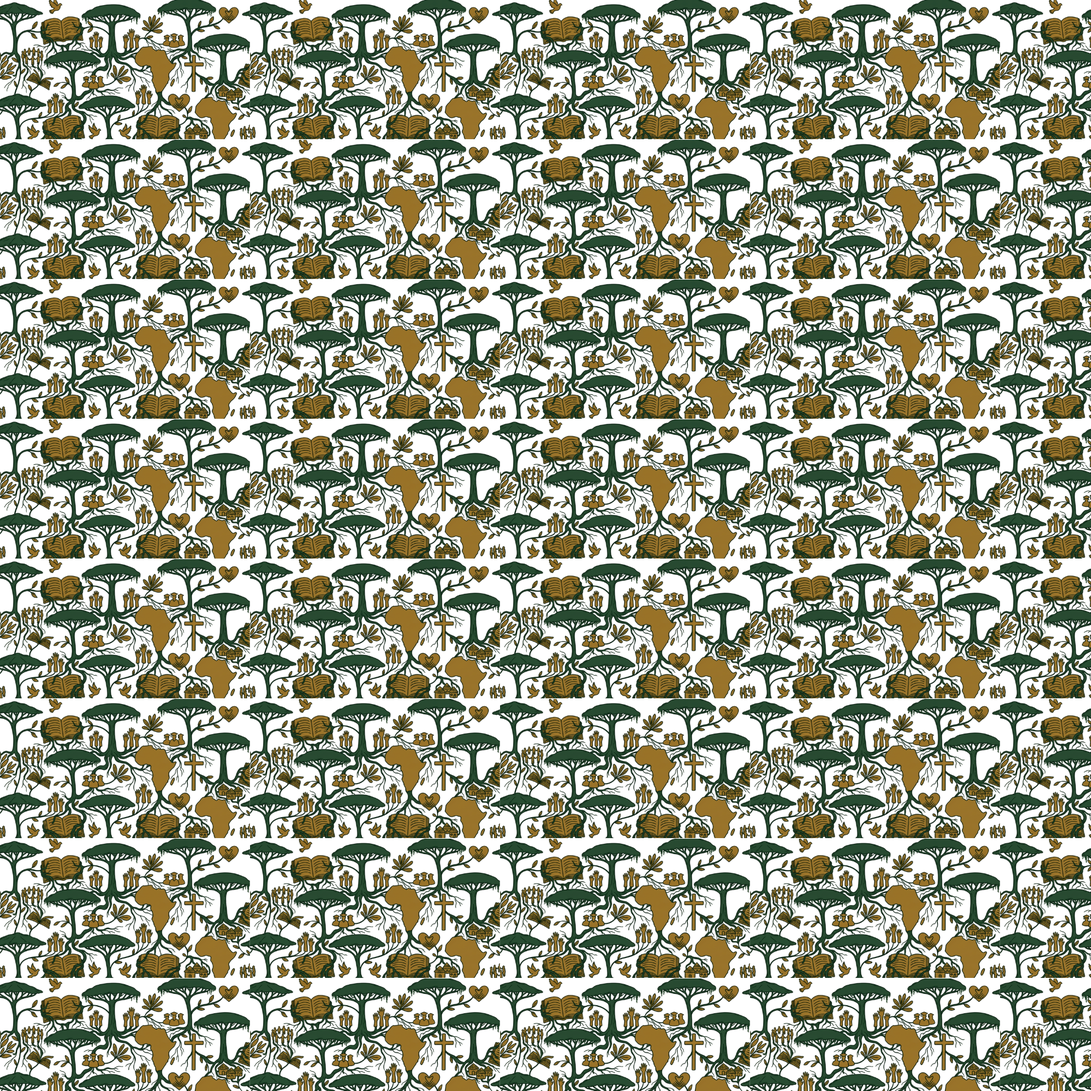
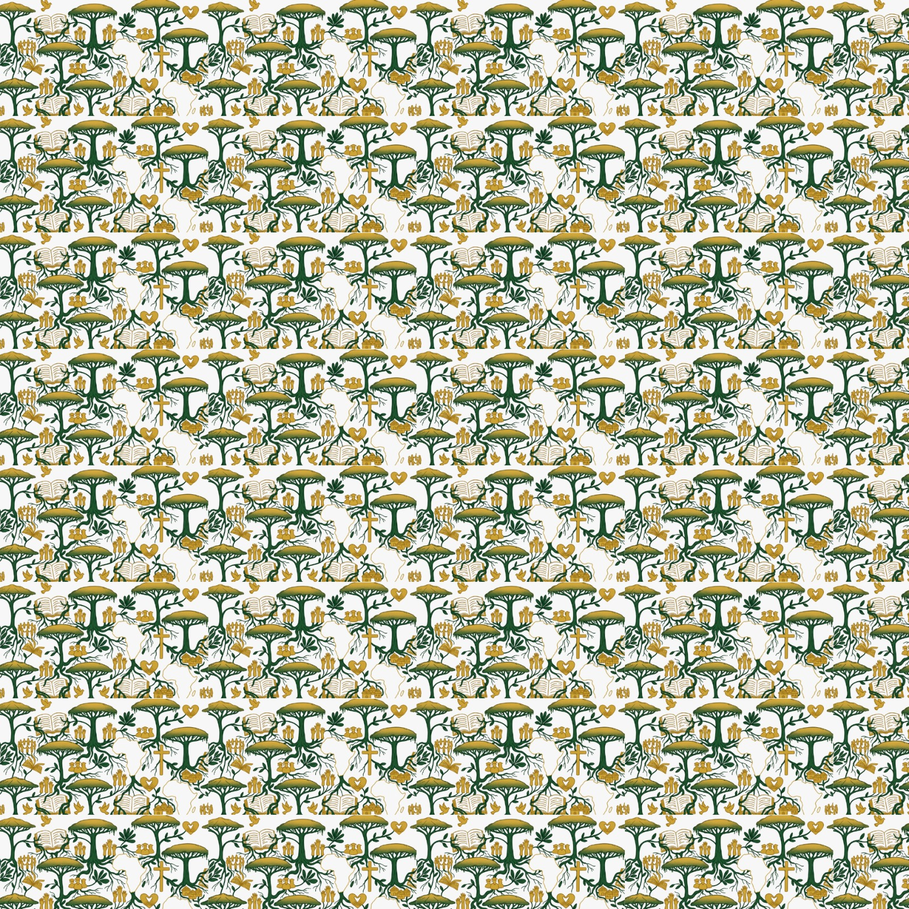
updates to the code now

diff --git a/components/Footer.tsx b/components/Footer.tsx
@@ -1,4 +1,3 @@
-
 "use client";
 
 import NextLink from "next/link";
@@ -110,7 +109,11 @@ export default function Footer() {
       bgRepeat="repeat"
       bg="brand.50"
     >
-      <Container maxW="100rem" position="relative" zIndex={1}>
+      <Container
+        maxW="109rem"
+        position="relative"
+        zIndex={1}
+      >
         {/* =====================================================
             MAIN FOOTER
             ===================================================== */}
@@ -120,14 +123,12 @@ export default function Footer() {
             base: "1fr",
             md: "repeat(5, 1fr)",
           }}
-          gap={{ base: 10, md: 9, lg: 10 }}
-          ml={{ base: 0, lg: -10 }}
-          py={16}
+          gap={{ base: 6, md: 6, lg: 7 }}
+          ml={0}
+          py={{ base: 8, md: 9 }}
         >
           {/* ===================================================
               ABOUT
-
-              LOGO HAS BEEN LEFT EXACTLY AS PROVIDED
               =================================================== */}
 
           <GridItem justifySelf="start">
@@ -138,40 +139,56 @@ export default function Footer() {
               textAlign="left"
               h="100%"
               mt={{ base: 0, md: -19 }}
+              w="100%"
             >
-              <Image
-                src="/fot.png"
+              {/* =================================================
+                  FOOTER LOGO
+                  ================================================= */}
+
+              <Box
                 w={{
-                  base: "280px",
-                  sm: "280px",
-                  md: "255px",
-                  lg: "260px",
+                  base: "150px",
+                  md: "170px",
+                  lg: "270px",
                 }}
-                alt="Bethesda Training College"
+                overflow="visible"
                 ml={{
-                  base: "-70px",
-                  sm: "-50px",
+                  base: 0,
                   md: "-55px",
-                  lg: "-75px",
                 }}
-              />
+              >
+                <Image
+                  src="/fot.png"
+                  w="370px"
+                  alt="Bethesda Training College"
+                  objectFit="contain"
+                />
+              </Box>
+
+              {/* =================================================
+                  COLLEGE TITLE
+                  ================================================= */}
 
               <Heading
-                color="earth.900"
+                color="#000000"
                 size="md"
-                mb={4}
+                mb={3}
               >
                 Bethesda Training College
               </Heading>
+
+              {/* =================================================
+                  DESCRIPTION
+                  ================================================= */}
 
               <Text
                 color="gray.700"
                 fontSize="sm"
                 lineHeight="1.7"
               >
-                We equip pastors, ministry leaders, and believers with sound
-                biblical, theological, and practical training to serve the
-                Church and society effectively.
+                We equip pastors, ministry leaders, and believers with
+                sound biblical, theological, and practical training to
+                serve the Church and society effectively.
               </Text>
             </Box>
           </GridItem>
@@ -183,8 +200,8 @@ export default function Footer() {
           <GridItem>
             <Heading
               size="sm"
-              mb={4}
-              color="earth.900"
+              mb={3}
+              color="#000000"
               textTransform="uppercase"
             >
               QUICKLINKS
@@ -240,8 +257,8 @@ export default function Footer() {
           <GridItem>
             <Heading
               size="sm"
-              mb={4}
-              color="earth.900"
+              mb={3}
+              color="#000000"
               textTransform="uppercase"
             >
               COURSES
@@ -277,14 +294,14 @@ export default function Footer() {
           <GridItem>
             <Heading
               size="sm"
-              mb={4}
-              color="earth.900"
+              mb={3}
+              color="#000000"
               textTransform="uppercase"
             >
               CONTACT
             </Heading>
 
-            <Stack gap={3}>
+            <Stack gap={2}>
               {/* Location */}
 
               <HStack
@@ -392,8 +409,8 @@ export default function Footer() {
           <GridItem>
             <Heading
               size="sm"
-              mb={4}
-              color="earth.900"
+              mb={3}
+              color="#000000"
               textTransform="uppercase"
             >
               CONNECT WITH US
@@ -502,16 +519,15 @@ export default function Footer() {
               </Link>
             </HStack>
 
-            {/* Partner With Us
-                Moved from CONTACT to CONNECT WITH US */}
+            {/* Partner With Us */}
 
             <Button
-              mt={6}
-              size="lg"
+              mt={4}
+              size="md"
               variant="outline"
               borderColor="gold.500"
               color="gold.500"
-              px={7}
+              px={6}
               _hover={{
                 bg: "gold.500",
                 color: "earth.500",
@@ -520,10 +536,12 @@ export default function Footer() {
               Partner With Us
             </Button>
 
+            {/* Tagline */}
+
             <Text
               color="earth.300"
               fontSize="sm"
-              mt={5}
+              mt={4}
               lineHeight="1.6"
             >
               Rooted in the Word, Ready for the World.
@@ -544,9 +562,9 @@ export default function Footer() {
             RECOGNITION & PARTNERS
             ===================================================== */}
 
-        <Box py={{ base: 10, md: 10 }}>
+        <Box py={{ base: 6, md: 7 }}>
           <Stack
-            gap={10}
+            gap={6}
             align="center"
           >
             {/* Section Heading */}
@@ -555,7 +573,7 @@ export default function Footer() {
               fontSize="sm"
               letterSpacing="0.25em"
               textTransform="uppercase"
-              color="gray.500"
+              color="#000000"
               fontWeight="600"
               textAlign="center"
             >
@@ -583,15 +601,15 @@ export default function Footer() {
                   display="flex"
                   justifyContent="center"
                   alignItems="center"
-                  minH="100px"
+                  minH="75px"
                 >
                   <Image
                     src={item.img}
                     alt={item.name}
                     maxH={
                       item.large
-                        ? "105px"
-                        : "80px"
+                        ? "95px"
+                        : "70px"
                     }
                     maxW={
                       item.large
@@ -621,7 +639,7 @@ export default function Footer() {
                 md: "none",
               }}
               columns={2}
-              gap={8}
+              gap={6}
               w="full"
             >
               {recognitionPartners.map((item) => (
@@ -630,15 +648,15 @@ export default function Footer() {
                   display="flex"
                   justifyContent="center"
                   alignItems="center"
-                  minH="90px"
+                  minH="70px"
                 >
                   <Image
                     src={item.img}
                     alt={item.name}
                     maxH={
                       item.large
-                        ? "95px"
-                        : "70px"
+                        ? "90px"
+                        : "65px"
                     }
                     maxW={
                       item.large
@@ -789,4 +807,3 @@ export default function Footer() {
     </Box>
   );
 }
-

diff --git a/components/Navbar.tsx b/components/Navbar.tsx
@@ -33,21 +33,32 @@ export function Dropdown({
   label,
   items,
   color = "earth.900",
+  hoverBg = "gray.100",
+  hoverColor = "earth.500",
+  triggerHoverColor,
 }: {
-  label: string;
+   label: string;
   items: string[];
   color?: string;
+  hoverBg?: string;
+  hoverColor?: string;
+  triggerHoverColor?: string;
 }) {
   return (
     <Popover.Root>
       <Popover.Trigger asChild>
         <Link
-          color={color}
-          cursor="pointer"
-          fontWeight="500"
-          _hover={{
-            textDecoration: "none",
-          }}
+         color={color}
+    cursor="pointer"
+    fontWeight="500"
+    textDecoration="none"
+    _hover={{
+      color: triggerHoverColor,
+      textDecoration: "none",
+    }}
+      _groupHover={{
+    color: triggerHoverColor,
+  }}
         >
           {label}
         </Link>
@@ -199,7 +210,7 @@ export default function Navbar() {
                   />
 
                   <Text
-                    color="earth.700"
+                    color="black"
                     fontWeight="bold"
                     fontSize={{ base: "md", md: "34px" }}
                     lineHeight="1.1"

diff --git a/components/layout/UtilityBar.tsx b/components/layout/UtilityBar.tsx
@@ -20,23 +20,22 @@ export default function UtilityBar() {
           flexWrap={{ base: "wrap", md: "nowrap" }}
           fontSize={{ base: "sm", md: "md" }}
         >
-
-      <Button
-               size="lg"
-              variant="outline"
-              borderColor="gold.500"
-              color="gold.500"
-              _hover={{
-                bg: "gold.500",
-                color: "earth.500",
-              }}
-            >
-         <Dropdown
-                      label="Partner With Us"
-                      items={partner}
-                      color="earth.500"
-                      _
-                    />
+<Button
+  className="group"
+  size="md"
+  variant="outline"
+  borderColor="gold.500"
+  _hover={{
+    bg: "gold.500",
+    color: "earth.500"
+  }}
+>
+          <Dropdown
+    label="Partner With Us"
+    items={partner}
+    color="gold.500"
+    triggerHoverColor="earth.500"
+  />
                     </Button>
         </HStack>
       </Box>

diff --git a/components/MinistryCall.tsx b/components/MinistryCall.tsx
@@ -70,7 +70,8 @@ export default function MinistryCall() {
                 opacity: 0.9,
               }}
             >
-              What does it mean to be called to ministry?
+              Apply Now
+              
             </Button>
           </Stack>
 
@@ -108,7 +109,7 @@ export default function MinistryCall() {
 
             {/* CONTENT BLOCK */}
             <Box
-              minH={{ lg: "260px" }}
+              minH={{ lg: "250px" }}
               display="flex"
               alignItems="center"
             >
@@ -146,7 +147,8 @@ export default function MinistryCall() {
                 opacity: 0.9,
               }}
             >
-              Apply Now
+              What does it mean to be called to ministry?
+            
             </Button>
           </Stack>
         </HStack>

diff --git a/components/WhyBtc.tsx b/components/WhyBtc.tsx
@@ -37,7 +37,7 @@ export default function WhyBTC() {
     <Box
       py={{ base: 20, lg: 24 }}
       bgImage="url('/green.png')"
-      bgSize="1700px"
+      bgSize="2500px"
       bgRepeat="repeat"
       position="relative"
     >
